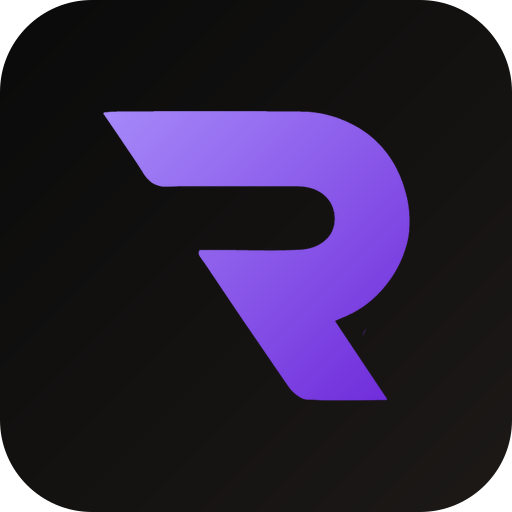
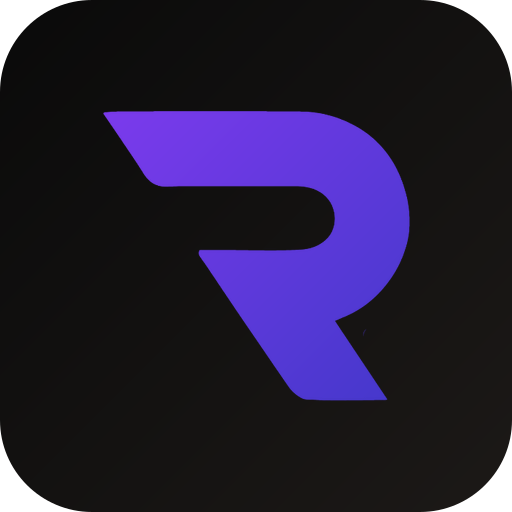
Cumplimiento: ring inset y hover en todos los pasos; PWA dark con degradado del sidebar
- Ring de selección "inset" (dentro de la tarjeta), no se recorta en bordes
- Hover y cursor pointer también cuando está seleccionado (incluye Clientes)
- Quito scale-[1.02] que ensanchaba el card
- Volvemos al padding original del row (px-4 / lg:px-0) ya sin riesgo
- PWA dark: R con degradado violet-600 → indigo-700 (igual al sidebar)
- Cache buster apple-touch-icon v=8

Changed region(s): [[0.1875, 0.2188, 0.8125, 0.7812]]

diff --git a/src/app/(admin)/cumplimiento/page.tsx b/src/app/(admin)/cumplimiento/page.tsx
@@ -199,10 +199,9 @@ function StepWorkflowCard({
   selected?: boolean;
 }) {
   const t = TONE_WORKFLOW[tone];
-  const base = `px-5 py-3 rounded-2xl border ${t.border} ${t.bg} shadow-sm min-w-[110px] text-left transition-all`;
-  const interact = selected
-    ? "ring-2 ring-offset-2 ring-slate-900 scale-[1.02]"
-    : "hover:-translate-y-0.5 hover:shadow-md cursor-pointer";
+  const base = `px-5 py-3 rounded-2xl border ${t.border} ${t.bg} shadow-sm min-w-[110px] text-left transition-all cursor-pointer hover:-translate-y-0.5 hover:shadow-md`;
+  // Anillo "inset" (dentro de la tarjeta) para que no quede recortado por el contenedor con overflow-x.
+  const interact = selected ? "ring-2 ring-inset ring-slate-900" : "";
   const contenido = (
     <>
       <p
@@ -616,7 +615,7 @@ export default function CumplimientoPage() {
         </div>
       </header>
 
-      <div className="flex flex-nowrap lg:flex-wrap items-stretch gap-2 lg:gap-3 overflow-x-auto overflow-y-visible -mx-4 px-5 lg:mx-0 lg:px-1.5 py-1.5">
+      <div className="flex flex-nowrap lg:flex-wrap items-stretch gap-2 lg:gap-3 overflow-x-auto -mx-4 px-4 lg:mx-0 lg:px-0 py-1">
         <StepWorkflowCard
           label="Clientes"
           count={resumen.total}

diff --git a/src/app/layout.tsx b/src/app/layout.tsx
@@ -289,17 +289,17 @@ export default function RootLayout({ children }: { children: React.ReactNode }) 
             iOS aún no alterna el ícono del acceso directo al cambiar tema; queda listo por si Apple lo soporta. */}
         <link
           rel="apple-touch-icon"
-          href="/apple-touch-icon-admin.png?v=7"
+          href="/apple-touch-icon-admin.png?v=8"
           sizes="180x180"
           media="(prefers-color-scheme: light)"
         />
         <link
           rel="apple-touch-icon"
-          href="/apple-touch-icon-admin-dark.png?v=7"
+          href="/apple-touch-icon-admin-dark.png?v=8"
           sizes="180x180"
           media="(prefers-color-scheme: dark)"
         />
-        <link rel="apple-touch-icon" href="/apple-touch-icon-admin.png?v=7" sizes="180x180" />
+        <link rel="apple-touch-icon" href="/apple-touch-icon-admin.png?v=8" sizes="180x180" />
         <meta name="theme-color" content="#7c3aed" media="(prefers-color-scheme: light)" />
         <meta name="theme-color" content="#0a0a0a" media="(prefers-color-scheme: dark)" />
         <meta name="apple-mobile-web-app-capable" content="yes" />
